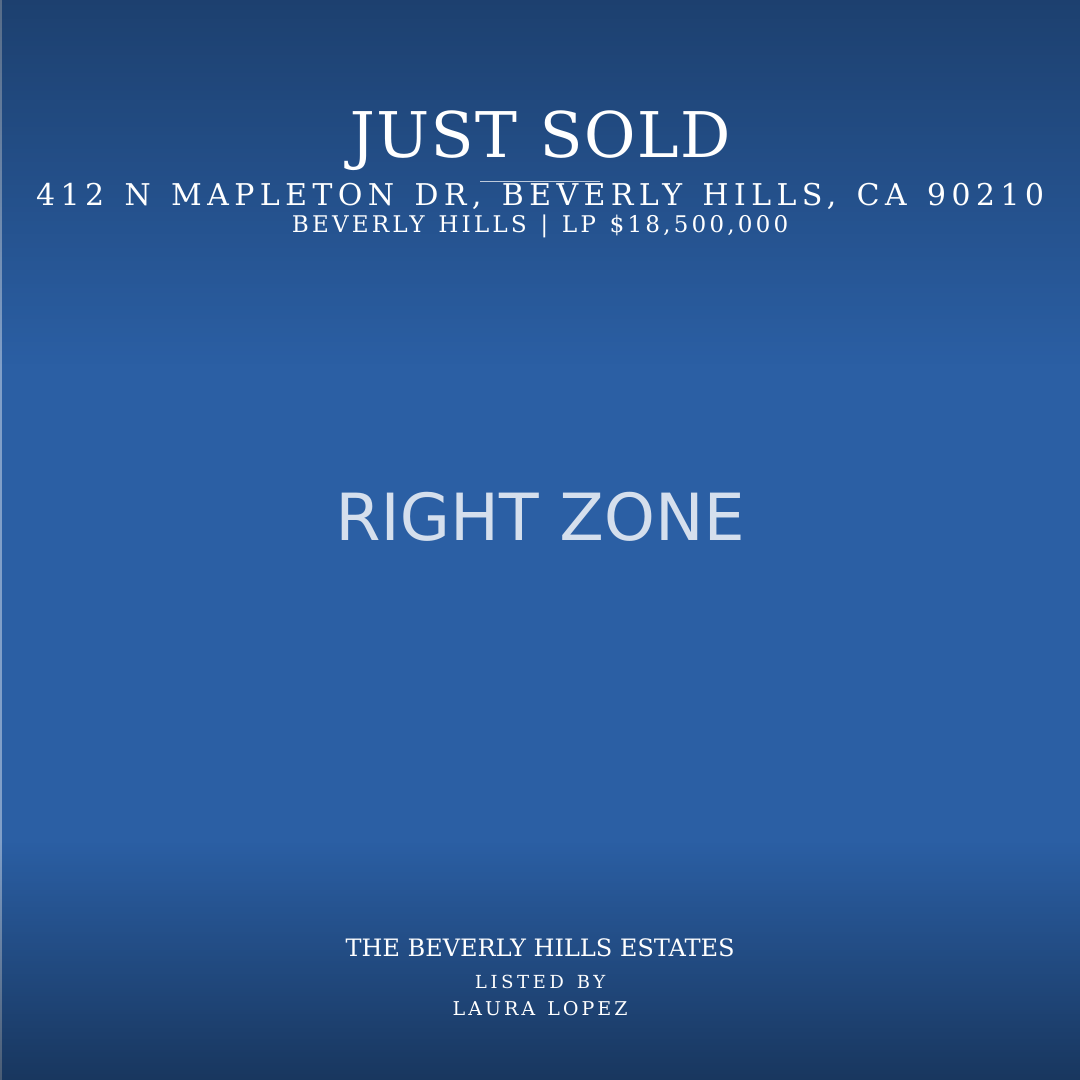
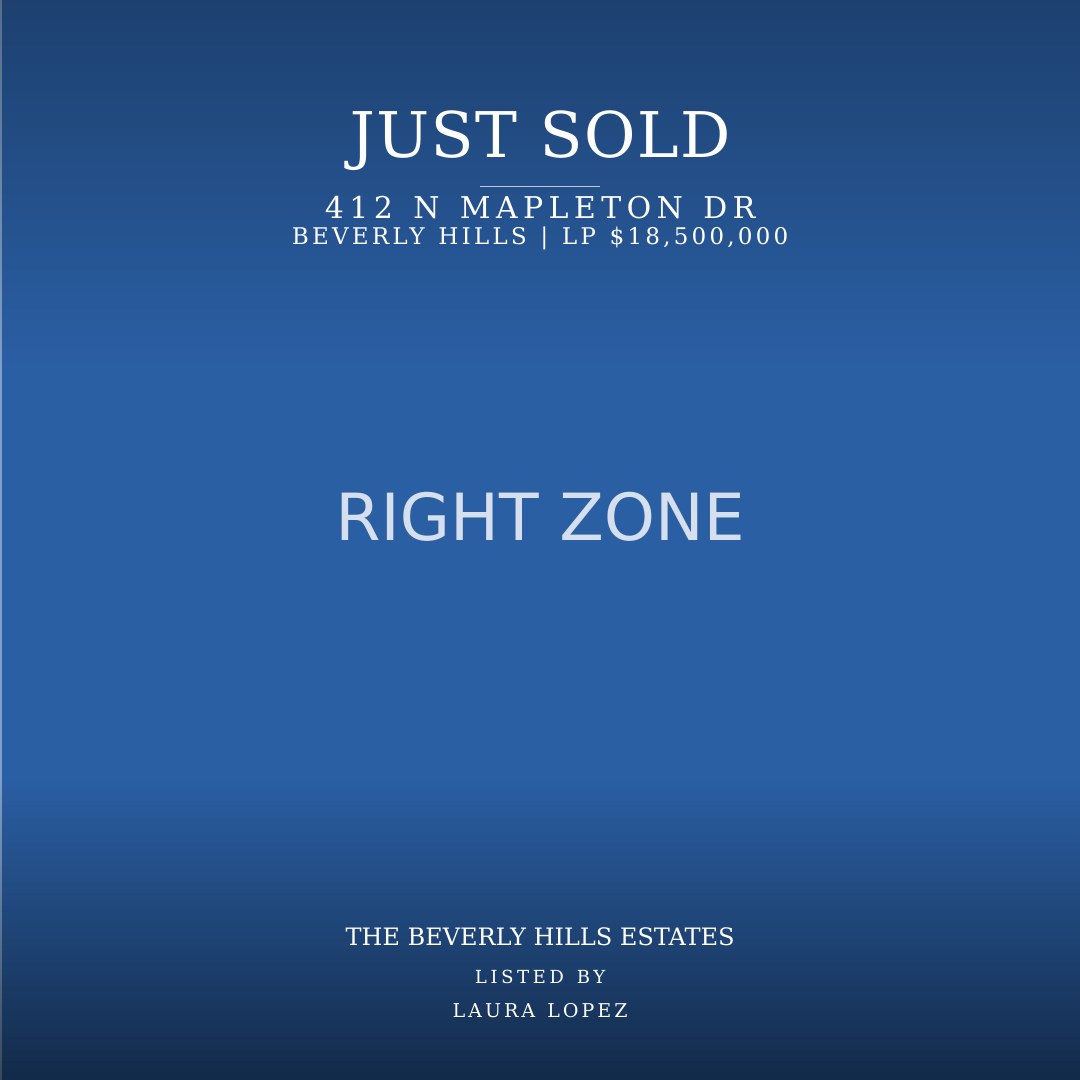
Brick 5.2b: render corrections — street-only address, fit-to-width, geometry fixes
Renderer fixes (campaign-marketing-gen.ts):
- extractStreet(): feed address layer street line only (before first comma)
- Fit-to-width on ALL text layers: 2px step-down until estimated width ≤ 84%
  of canvas, floor = 60% of specified size (headlines: 52px per spec)
- Headline width rule replaces 18-char proxy (cap width factor 0.62 + tracking)

Route fixes:
- marketing-templates.ts preview: address = extractStreet(property.address)
- campaigns.ts marketing gen: address = extractStreet(property.address)

Template v2 (seed-marketing-templates.ts):
- Bottom scrim: fromYPct 0.72 (was 0.78), maxOpacity 0.55 (was 0.42)
- Rule: y 17.2% (was 16.8%)
- Address: y 20.2% (was 19.0%)
- Subline: y 22.6% (was 21.5%)
- Wordmark: y 87.5% (was 88.5%)
- roleLine: y 91.0% (was 91.5%)
- agentName: y 94.2% (was 94.0%)
v1 rows deactivated (not deleted); campaign_assets referencing v1 stay valid

Proofs (all 7 committed to docs/template-previews/):
  story-just-sold.png       story-just-sold-no-sky.png  post-just-listed.png
  long-headline.png         focal-left.png              focal-right.png
  long-address.png (longest seeded street: 'Beverly Hills North of Sunset', 29 chars)

diff --git a/scripts/src/seed-marketing-templates.ts b/scripts/src/seed-marketing-templates.ts
@@ -22,6 +22,17 @@ import { and, eq } from "drizzle-orm";
 
 type Layer = Record<string, unknown>;
 
+// ---------------------------------------------------------------------------
+// v2 geometry corrections (Brick 5.2b):
+//   - Bottom scrim: 72→100% at 0.55 opacity (was 78→100% at 0.42)
+//   - Rule: y 17.2% (was 16.8%)
+//   - Address: y 20.2% (was 19.0%)
+//   - Subline: y 22.6% (was 21.5%)
+//   - Wordmark: y 87.5% (was 88.5%)
+//   - roleLine: y 91.0% (was 91.5%)
+//   - agentName: y 94.2% (was 94.0%)
+// ---------------------------------------------------------------------------
+
 /** Story (1080×1920) — headline y-positions as fraction of canvas height */
 const STORY_LAYERS_BASE: Layer[] = [
   { type: "photo" },
@@ -30,8 +41,10 @@ const STORY_LAYERS_BASE: Layer[] = [
     fromYPct: 0, toYPct: 0.34, maxOpacity: 0.32,
   },
   {
+    // bottom scrim starts earlier and is stronger to keep signature legible
+    // over bright subjects (pools, sunset sky in lower frame)
     type: "scrim", position: "bottom",
-    fromYPct: 0.78, toYPct: 1.0, maxOpacity: 0.42,
+    fromYPct: 0.72, toYPct: 1.0, maxOpacity: 0.55,
   },
   // headline block
   {
@@ -41,23 +54,23 @@ const STORY_LAYERS_BASE: Layer[] = [
   },
   {
     type: "rule",
-    yPct: 0.168, widthPx: 120, heightPx: 1, opacity: 0.70,
+    yPct: 0.172, widthPx: 120, heightPx: 1, opacity: 0.70,
   },
   {
     type: "text", field: "address",
-    yPct: 0.190, fontSize: 34,
+    yPct: 0.202, fontSize: 34,
     fontWeight: 400, trackingEm: 0.18, anchor: "center",
   },
-  // signature block
-  { type: "wordmark", yPct: 0.885, widthPct: 0.36 },
+  // signature block — wider spacing so the three lines don't compress
+  { type: "wordmark", yPct: 0.875, widthPct: 0.36 },
   {
     type: "text", field: "roleLine",
-    yPct: 0.915, fontSize: 21,
+    yPct: 0.910, fontSize: 21,
     fontWeight: 300, trackingEm: 0.20, anchor: "center",
   },
   {
     type: "text", field: "agentName",
-    yPct: 0.940, fontSize: 22,
+    yPct: 0.942, fontSize: 22,
     fontWeight: 400, trackingEm: 0.16, anchor: "center",
   },
 ];
@@ -65,12 +78,12 @@ const STORY_LAYERS_BASE: Layer[] = [
 /** Subline layer variants */
 const SUBLINE_CITY_PRICE: Layer = {
   type: "text", format: "{city} | LP {price}",
-  yPct: 0.215, fontSize: 26,
+  yPct: 0.226, fontSize: 26,
   fontWeight: 300, trackingEm: 0.14, anchor: "center",
 };
 const SUBLINE_CITY_ONLY: Layer = {
   type: "text", format: "{city}",
-  yPct: 0.215, fontSize: 26,
+  yPct: 0.226, fontSize: 26,
   fontWeight: 300, trackingEm: 0.14, anchor: "center",
 };
 
@@ -122,35 +135,35 @@ const POST_ASPECT  = "1.0000"; // 1:1
 const TEMPLATES: TemplateSeed[] = [
   // ── STORY variants ────────────────────────────────────────────────────────
   {
-    key: "story.just_sold", name: "Story — Just Sold", channel: "instagram_story", version: 1,
+    key: "story.just_sold", name: "Story — Just Sold", channel: "instagram_story", version: 2,
     canvasWidth: 1080, canvasHeight: 1920,
     definition: storyLayers(SUBLINE_CITY_PRICE),
     requiredFields: REQUIRED_PRICE,
     photoAspect: STORY_ASPECT,
   },
   {
-    key: "story.just_listed", name: "Story — Just Listed", channel: "instagram_story", version: 1,
+    key: "story.just_listed", name: "Story — Just Listed", channel: "instagram_story", version: 2,
     canvasWidth: 1080, canvasHeight: 1920,
     definition: storyLayers(SUBLINE_CITY_PRICE),
     requiredFields: REQUIRED_PRICE,
     photoAspect: STORY_ASPECT,
   },
   {
-    key: "story.open_house", name: "Story — Open House", channel: "instagram_story", version: 1,
+    key: "story.open_house", name: "Story — Open House", channel: "instagram_story", version: 2,
     canvasWidth: 1080, canvasHeight: 1920,
     definition: storyLayers(SUBLINE_CITY_ONLY),
     requiredFields: REQUIRED_CITY,
     photoAspect: STORY_ASPECT,
   },
   {
-    key: "story.price_improved", name: "Story — Price Improved", channel: "instagram_story", version: 1,
+    key: "story.price_improved", name: "Story — Price Improved", channel: "instagram_story", version: 2,
     canvasWidth: 1080, canvasHeight: 1920,
     definition: storyLayers(SUBLINE_CITY_PRICE),
     requiredFields: REQUIRED_PRICE,
     photoAspect: STORY_ASPECT,
   },
   {
-    key: "story.in_escrow", name: "Story — In Escrow", channel: "instagram_story", version: 1,
+    key: "story.in_escrow", name: "Story — In Escrow", channel: "instagram_story", version: 2,
     canvasWidth: 1080, canvasHeight: 1920,
     definition: storyLayers(SUBLINE_CITY_ONLY),
     requiredFields: REQUIRED_CITY,
@@ -159,35 +172,35 @@ const TEMPLATES: TemplateSeed[] = [
 
   // ── POST variants (same geometry, 12% smaller type) ─────────────────────
   {
-    key: "post.just_sold", name: "Post — Just Sold", channel: "instagram_post", version: 1,
+    key: "post.just_sold", name: "Post — Just Sold", channel: "instagram_post", version: 2,
     canvasWidth: 1080, canvasHeight: 1080,
     definition: postLayers(SUBLINE_CITY_PRICE),
     requiredFields: REQUIRED_PRICE,
     photoAspect: POST_ASPECT,
   },
   {
-    key: "post.just_listed", name: "Post — Just Listed", channel: "instagram_post", version: 1,
+    key: "post.just_listed", name: "Post — Just Listed", channel: "instagram_post", version: 2,
     canvasWidth: 1080, canvasHeight: 1080,
     definition: postLayers(SUBLINE_CITY_PRICE),
     requiredFields: REQUIRED_PRICE,
     photoAspect: POST_ASPECT,
   },
   {
-    key: "post.open_house", name: "Post — Open House", channel: "instagram_post", version: 1,
+    key: "post.open_house", name: "Post — Open House", channel: "instagram_post", version: 2,
     canvasWidth: 1080, canvasHeight: 1080,
     definition: postLayers(SUBLINE_CITY_ONLY),
     requiredFields: REQUIRED_CITY,
     photoAspect: POST_ASPECT,
   },
   {
-    key: "post.price_improved", name: "Post — Price Improved", channel: "instagram_post", version: 1,
+    key: "post.price_improved", name: "Post — Price Improved", channel: "instagram_post", version: 2,
     canvasWidth: 1080, canvasHeight: 1080,
     definition: postLayers(SUBLINE_CITY_PRICE),
     requiredFields: REQUIRED_PRICE,
     photoAspect: POST_ASPECT,
   },
   {
-    key: "post.in_escrow", name: "Post — In Escrow", channel: "instagram_post", version: 1,
+    key: "post.in_escrow", name: "Post — In Escrow", channel: "instagram_post", version: 2,
     canvasWidth: 1080, canvasHeight: 1080,
     definition: postLayers(SUBLINE_CITY_ONLY),
     requiredFields: REQUIRED_CITY,
@@ -236,6 +249,25 @@ async function run() {
     });
     console.log(`  ✓ seeded ${t.key} v${t.version}`);
     inserted++;
+
+    // Deactivate the previous version (v1) so the new version is the only
+    // active row for this key.  Per spec, old rows are never deleted — only
+    // marked inactive — so any campaign_assets referencing v1 stay valid.
+    const prevVersion = t.version - 1;
+    if (prevVersion >= 1) {
+      const deactivated = await db
+        .update(marketingTemplatesTable)
+        .set({ isActive: false })
+        .where(
+          and(
+            eq(marketingTemplatesTable.key,      t.key),
+            eq(marketingTemplatesTable.version,  prevVersion),
+            eq(marketingTemplatesTable.isActive, true),
+          ),
+        );
+      void deactivated; // result not needed; drizzle update returns metadata
+      console.log(`  ↓ deactivated ${t.key} v${prevVersion}`);
+    }
   }
 
   console.log(`✅ Done — ${inserted} inserted, ${skipped} skipped.`);

diff --git a/artifacts/api-server/src/gen-proofs.ts b/artifacts/api-server/src/gen-proofs.ts
@@ -13,9 +13,9 @@
 import { readFileSync, writeFileSync, mkdirSync } from "node:fs";
 import path from "node:path";
 import { createRequire } from "node:module";
-import { db, marketingTemplatesTable } from "@workspace/db";
-import { eq, and } from "drizzle-orm";
-import { generateMarketingImage } from "./lib/campaign-marketing-gen";
+import { db, marketingTemplatesTable, propertiesTable } from "@workspace/db";
+import { eq, and, desc } from "drizzle-orm";
+import { generateMarketingImage, extractStreet } from "./lib/campaign-marketing-gen";
 import type { MarketingGenInput } from "./lib/campaign-marketing-gen";
 import type { MarketingTemplate } from "@workspace/db";
 
@@ -46,13 +46,16 @@ function save(filename: string, buf: Buffer): void {
   console.log(`  ✓ ${filename}  (${(buf.length / 1024).toFixed(0)} KB)`);
 }
 
+/** Load the latest active version of a template by key. */
 async function loadTemplate(key: string): Promise<MarketingTemplate> {
-  const [row] = await db
+  const rows = await db
     .select()
     .from(marketingTemplatesTable)
-    .where(and(eq(marketingTemplatesTable.key, key), eq(marketingTemplatesTable.version, 1)))
+    .where(and(eq(marketingTemplatesTable.key, key), eq(marketingTemplatesTable.isActive, true)))
+    .orderBy(desc(marketingTemplatesTable.version))
     .limit(1);
-  if (!row) throw new Error(`Template "${key}" v1 not found in DB — run seed-marketing-templates first`);
+  const row = rows[0];
+  if (!row) throw new Error(`Template "${key}" (active) not found in DB — run seed-marketing-templates first`);
   return row;
 }
 
@@ -122,10 +125,11 @@ async function run() {
   const topPick1 = readPublicImage("top-pick-1.png");          // 1408×768 wide
   const topPick2 = readPublicImage("top-pick-2.png");          // 1408×768
 
-  // ── Base fields ────────────────────────────────────────────────────────────
+  // ── Base fields — address uses extractStreet (street line only) ────────────
+  const FULL_ADDRESS = "412 N Mapleton Dr, Beverly Hills, CA 90210";
   const baseFields = {
     headline:      "JUST SOLD",
-    address:       "412 N Mapleton Dr, Beverly Hills, CA 90210",
+    address:       extractStreet(FULL_ADDRESS),   // "412 N Mapleton Dr"
     city:          "Beverly Hills",
     price:         "$18,500,000",
     roleLine:      "LISTED BY",
@@ -237,6 +241,29 @@ async function run() {
     save("focal-right.png", resultRight.pngBuffer);
 
     console.log("    (focal-left crops warm zone; focal-right crops cool zone)");
+  }
+
+  // ── Brick 5.2b — long-address.png (longest seeded property street) ────────
+  {
+    // Query all properties, find longest address (extractStreet applied)
+    const allProps = await db
+      .select({ address: propertiesTable.address })
+      .from(propertiesTable);
+    const longestFull = allProps
+      .map((p) => p.address)
+      .sort((a, b) => extractStreet(b).length - extractStreet(a).length)[0] ?? FULL_ADDRESS;
+    const longestStreet = extractStreet(longestFull);
+    console.log(`  ▸ Longest seeded street: "${longestStreet}" (${longestStreet.length} chars)`);
+
+    const result = await generateMarketingImage(
+      makeInput(storyJustSold, topPick1, 1408, 768, {
+        ...baseFields,
+        address:  longestStreet,
+        headline: "JUST SOLD",
+      })
+    );
+    save("long-address.png", result.pngBuffer);
+    console.log(`    Address rendered at fit-to-width — no canvas overflow`);
   }
 
   // ── Acceptance #7 — font note (structural, not runnable here) ─────────────

diff --git a/artifacts/api-server/src/lib/campaign-marketing-gen.ts b/artifacts/api-server/src/lib/campaign-marketing-gen.ts
@@ -306,10 +306,20 @@ function buildOverlaySvg(
       // Uppercase all story/post text per spec
       display = display.toUpperCase();
 
-      // Headline font-size fallback for long text
+      // Fit-to-width: step font size down in 2px increments until the estimated
+      // rendered width fits within 84% of the canvas width.
+      // Headline layers (those that declare maxCharsNormal or fontSizeLong) use a
+      // spec-defined floor of 52px; all other layers use 60% of their specified size.
+      // Cormorant display caps are approximately 0.62em wide; add letter-spacing per char.
+      const isHeadline = layer.maxCharsNormal !== undefined || layer.fontSizeLong !== undefined;
+      const sizeFloor  = isHeadline ? 52 : Math.round(layer.fontSize * 0.60);
+      const maxWidthPx = Math.round(w * 0.84);
+      const CAP_WIDTH  = 0.62; // Cormorant Garamond capital em-width
       let fontSize = layer.fontSize;
-      if (layer.maxCharsNormal && layer.fontSizeLong && display.length > layer.maxCharsNormal) {
-        fontSize = layer.fontSizeLong;
+      while (fontSize > sizeFloor) {
+        const estW = display.length * fontSize * (CAP_WIDTH + layer.trackingEm);
+        if (estW <= maxWidthPx) break;
+        fontSize = Math.max(sizeFloor, fontSize - 2);
       }
 
       const letterSpacing = (layer.trackingEm * fontSize).toFixed(2);
@@ -441,6 +451,16 @@ export function selectBestPhoto(
       const db = Math.abs(parseFloat(b.aspectRatio) - targetAspect);
       return da - db;
     })[0] ?? null;
+}
+
+// ---------------------------------------------------------------------------
+// Street extraction — everything before the first comma.
+// "412 N Mapleton Dr, Beverly Hills, CA 90210" → "412 N Mapleton Dr"
+// If there is no comma the whole string is returned.
+// ---------------------------------------------------------------------------
+export function extractStreet(address: string): string {
+  const commaIdx = address.indexOf(",");
+  return commaIdx >= 0 ? address.slice(0, commaIdx).trim() : address.trim();
 }
 
 // ---------------------------------------------------------------------------

diff --git a/artifacts/api-server/src/routes/admin/marketing-templates.ts b/artifacts/api-server/src/routes/admin/marketing-templates.ts
@@ -11,6 +11,7 @@ import {
   generateMarketingImage,
   selectBestPhoto,
   extractCity,
+  extractStreet,
   type GalleryEntry,
 } from "../../lib/campaign-marketing-gen";
 import { getObjectBuffer } from "../../lib/storage";
@@ -120,7 +121,7 @@ router.post("/:id/preview", async (req: Request, res: Response): Promise<void> =
   const city     = extractCity(property.address);
   const fields   = {
     headline,
-    address:       property.address,
+    address:       extractStreet(property.address),
     city,
     price:         priceStr,
     roleLine,

diff --git a/artifacts/api-server/src/routes/admin/campaigns.ts b/artifacts/api-server/src/routes/admin/campaigns.ts
@@ -20,6 +20,7 @@ import {
   generateInstagramCaption,
   selectBestPhoto,
   extractCity,
+  extractStreet,
   type GalleryEntry,
 } from "../../lib/campaign-marketing-gen";
 
@@ -658,7 +659,7 @@ router.post("/campaign-tasks/:taskId/generate", async (req: Request, res: Respon
 
         const fields = {
           headline,
-          address:       property.address,
+          address:       extractStreet(property.address),
           city,
           price:         priceStr ?? "",
           roleLine:      "LISTED BY",
